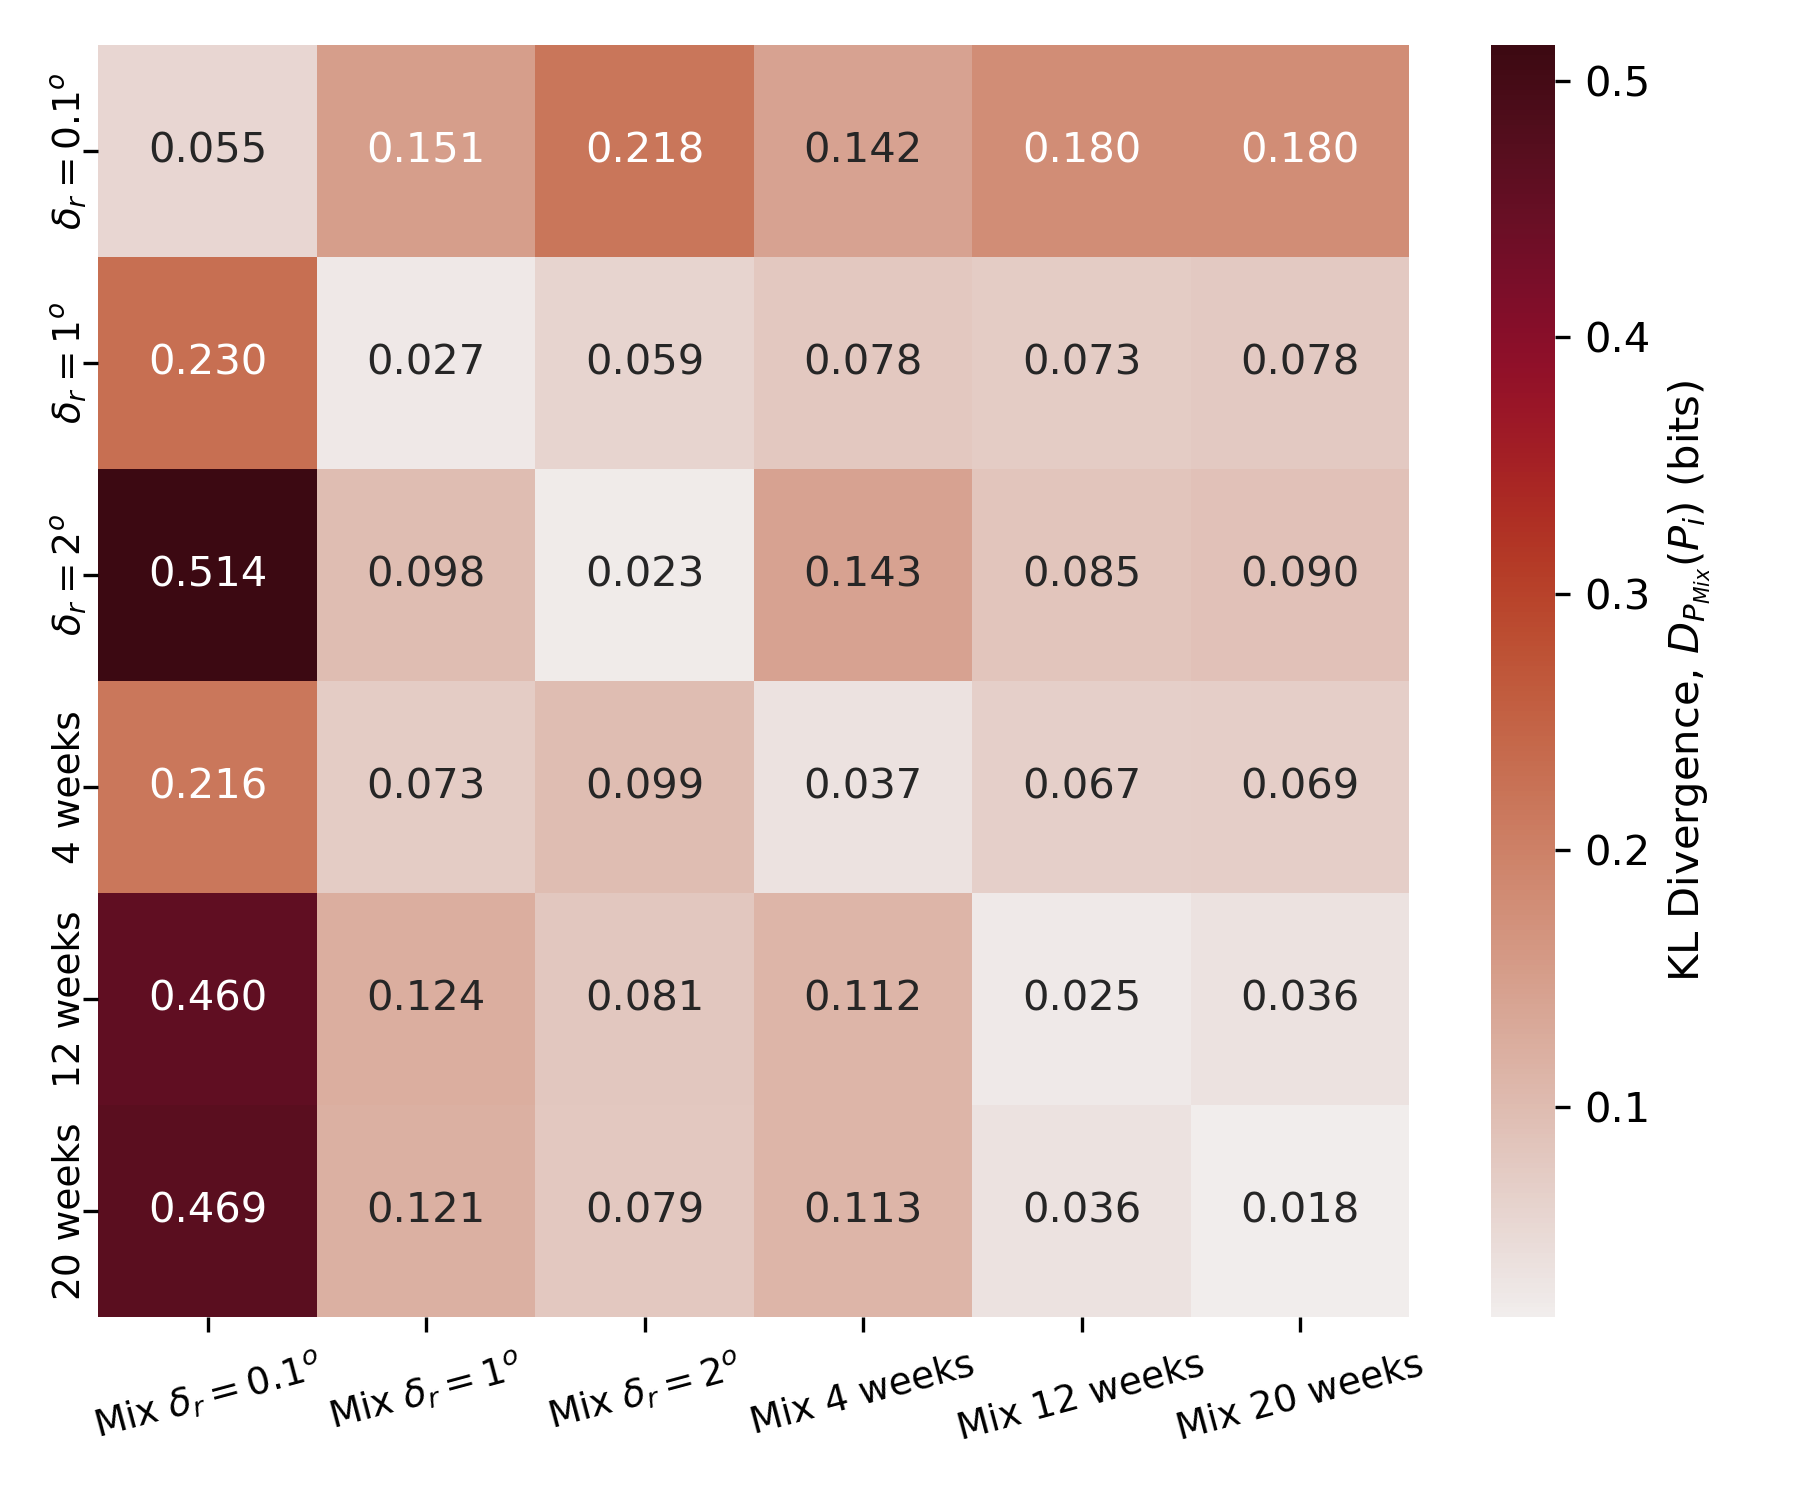
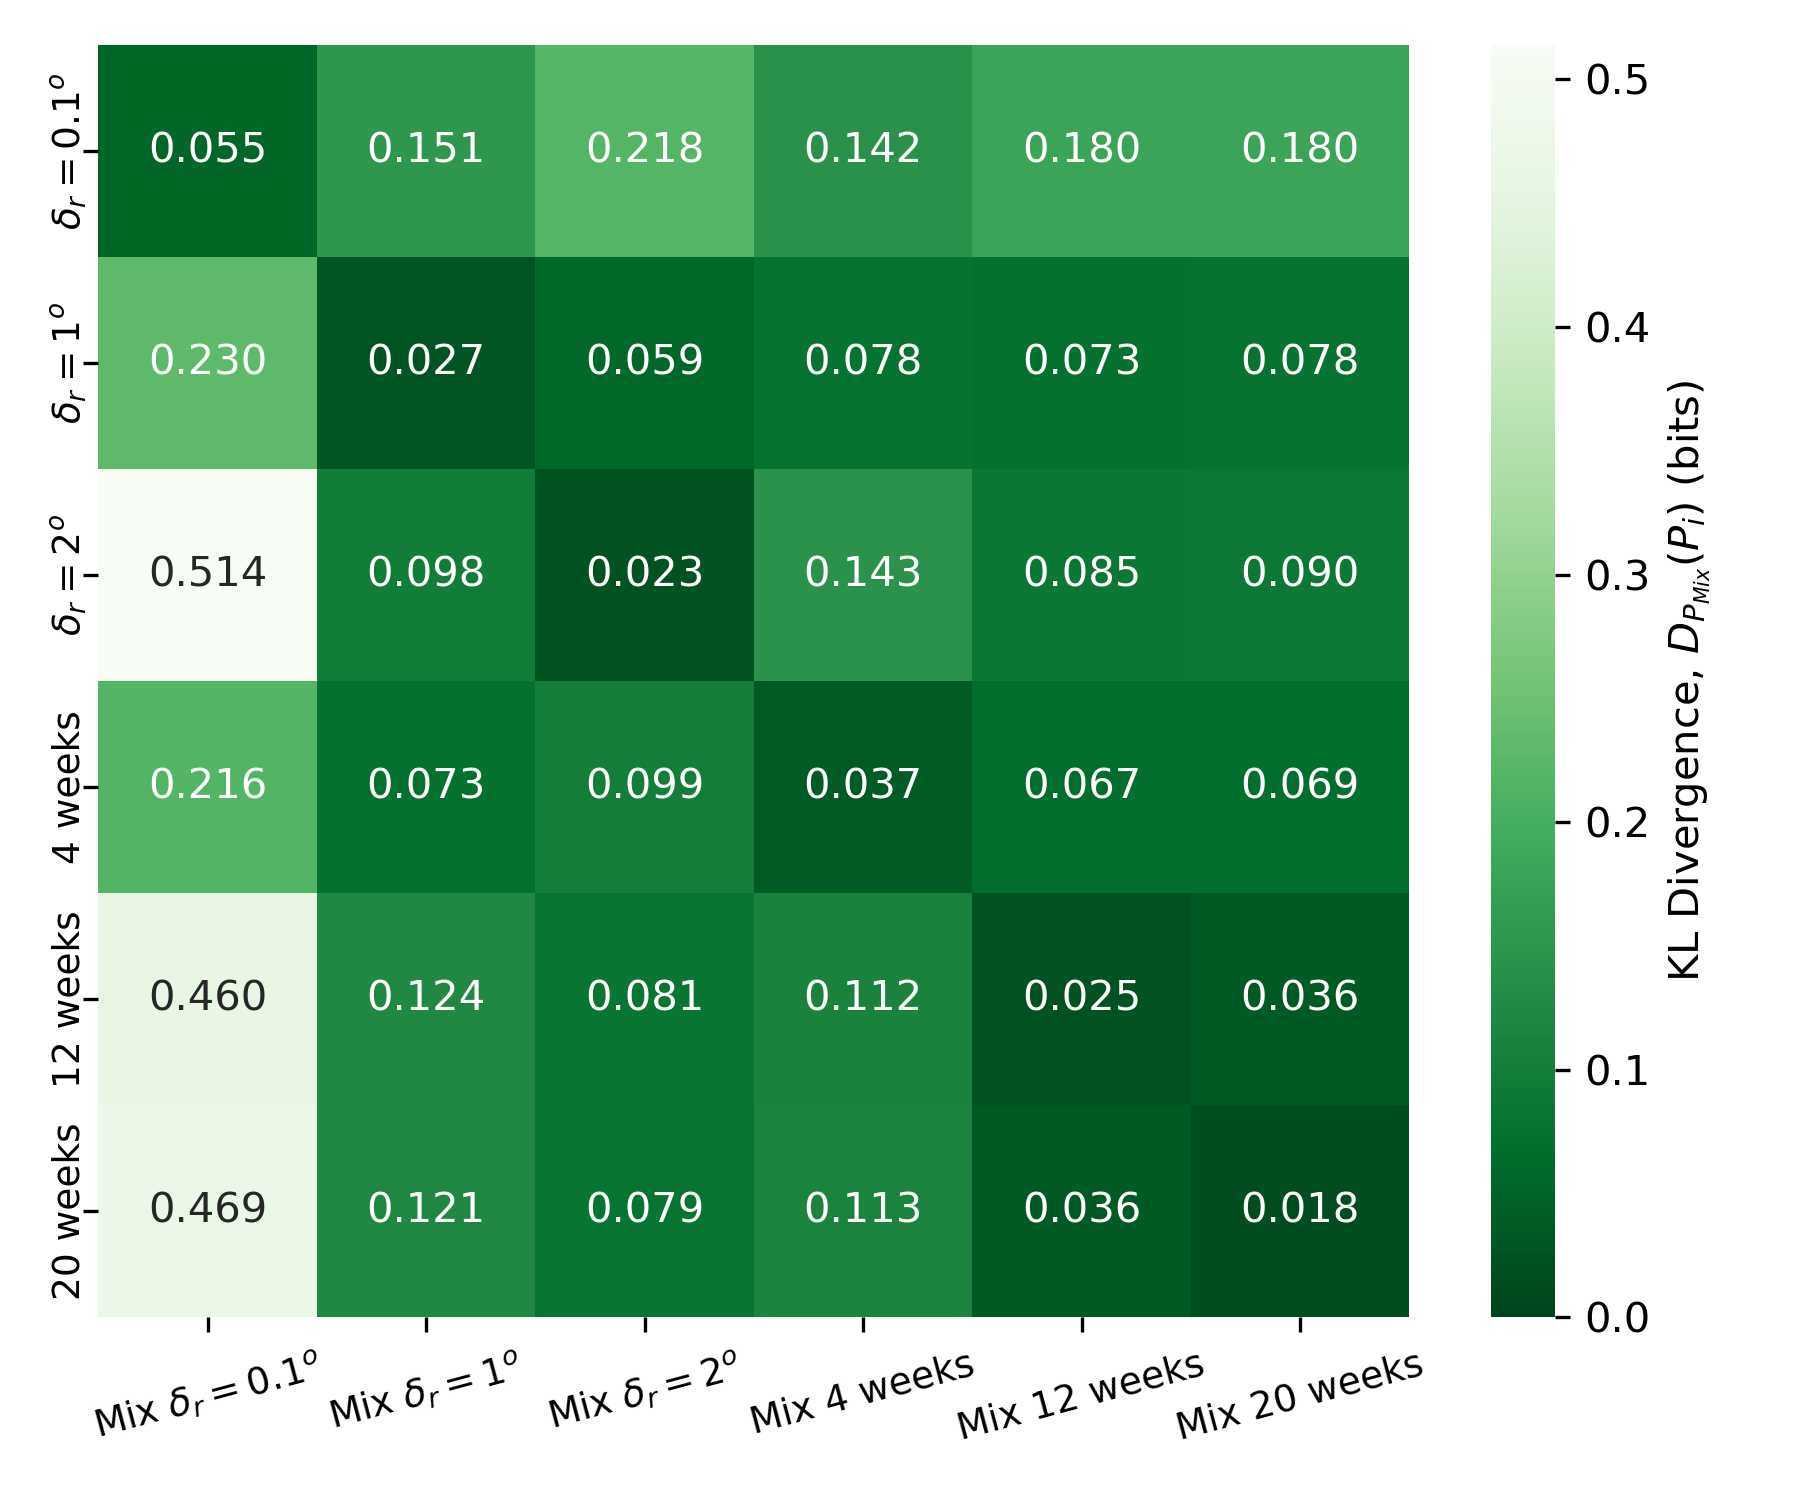
Submitted KLD comparisson for 50**2

diff --git a/plot_scripts/fig6--Connectivity.py b/plot_scripts/fig6--Connectivity.py
@@ -195,67 +195,68 @@ plt.savefig("../figs/Figx-Connect_MIX_tempNspace" + criterium_string + ".png", d
 ###################################################################
 #%% COMPARISON OF TEMPORAL AND SPATIAL CONNECTIVITY with Mixture
 # Plot the percentage of subpolar trajectories for temporal and spatial members
-fig, ax = plt.subplots(2, 3, figsize=(10, 6))
-
+fig, ax = plt.subplots(2, 2, figsize=(8, 6))
 ax = ax.flatten()
 # Plot distributions for percentage of subpolar trajectories
 
 colors_space = ["midnightblue", "blueviolet", "teal"]
 ls_space = [(0, (1, 1)), '--', '-.']
-j = 0
-for delta_r in [0.1, 1., 2.]:
-    sns.kdeplot(all_space[delta_r]["counts"], ax=ax[0], label=f"$\delta_r = {delta_r}^o$", clip=(0, 5000),
+
+for j, delta_r in enumerate([0.1, 1., 2.]):
+    sns.kdeplot(all_space[delta_r]["counts"], ax=ax[0], label=f"$\delta_r = {delta_r}^o$", clip=(0, 7500),
                 fill=False, color=colors_space[j], linestyle=ls_space[j])
     sns.kdeplot(all_space[delta_r]["median_time"]/365, ax=ax[1], label=f"Spatial dr{delta_r}", clip=(0, 6),
                 fill=False, color=colors_space[j], linestyle=ls_space[j])
-    sns.kdeplot(all_space[delta_r]["min_time"]/365, ax=ax[2], label=f"Spatial dr{delta_r}", clip=(0, 6),
-                fill=False, color=colors_space[j], linestyle=ls_space[j])
-    j += 1
 
-dr_ref = 0.1
-sns.kdeplot(all_mix_space[dr_ref]["counts"], ax=ax[0], label=f"Mix. $\delta_r = {dr_ref}^o$", clip=(0, 5000),
-            fill=False, color='k', linestyle='-')
-sns.kdeplot(all_mix_space[dr_ref]["median_time"]/365, ax=ax[1], label=f"Mix. $\delta_r = 1^o$", clip=(0, 6),
-            fill=False, color='k', linestyle='-')
-sns.kdeplot(all_mix_space[dr_ref]["min_time"]/365, ax=ax[2], label=f"Mix. $\delta_r = 1^o$", clip=(0, 6),
-            fill=False, color='k', linestyle='-')
 
-# sns.kdeplot(all_mix_temp[4]["counts"], ax=ax[0], label=f"Mix. 4 weeks", clip=(0, 100),
-#             fill=False, color='k', linestyle=(0, (3, 1, 1, 3)))
-# sns.kdeplot(all_mix_temp[4]["median_time"]/365, ax=ax[1], label=f"Mix. 4 weeks", clip=(0, 6),
-#             fill=False, color='k', linestyle=(0, (3, 1, 1, 3)))
-# sns.kdeplot(all_mix_temp[4]["min_time"]/365, ax=ax[2], label=f"Mix. 4 weeks", clip=(0, 6),
-#             fill=False, color='k', linestyle=(0, (3, 1, 1, 3)))
+for j, dr_ref in enumerate([0.1, 1., 2.]):
+    mean_counts = all_mix_space[dr_ref]["counts"].mean()
+    std_counts = all_mix_space[dr_ref]["counts"].std()
+
+    ax[0].fill_betweenx([0, 0.002], mean_counts-std_counts, mean_counts+std_counts,
+                        color=colors_space[j], alpha=0.2, label=f"Mix. $\delta_r = {dr_ref}^o$",
+                        edgecolor='none')
+    ax[0].set_ylim(0, 0.0009)
+    ax[0].set_xlim(0, 6500)
+    
+    mean_median_time = all_mix_space[dr_ref]["median_time"].mean()/365
+    std_median_time = all_mix_space[dr_ref]["median_time"].std()/365
+
+    ax[1].axvline(mean_median_time, color=colors_space[j], linestyle='-', 
+                  label=f"Mix. $\delta_r = {dr_ref}^o$", alpha=0.3)
+    ax[1].set_xlim(1, 6)
 
 colors_temp = ["darkred", "orangered", "orange"]
 ls_time = [(0, (1, 1)), '--', '-.', (0, (3, 1, 1, 1, 1, 1))]
-j = 0
-for week in [4, 12, 20]:
-    sns.kdeplot(all_temp[week]["counts"], ax=ax[3], label=f"{week} weeks", clip=(0, 5000),
-                fill=False, color=colors_temp[j], linestyle=ls_time[j])
-    sns.kdeplot(all_temp[week]["median_time"]/365, ax=ax[4], label=f"Temporal W{week}", clip=(0, 6),
-                fill=False, color=colors_temp[j], linestyle=ls_time[j])
-    sns.kdeplot(all_temp[week]["min_time"]/365, ax=ax[5], label=f"Temporal W{week}", clip=(0, 6),
-                fill=False, color=colors_temp[j], linestyle=ls_time[j])
-    j += 1
-    
-dr_ref = 0.1
-sns.kdeplot(all_mix_space[dr_ref]["counts"], ax=ax[3], label=f"Mix. $\delta_r = {dr_ref}^o$", clip=(0, 5000),
-            fill=False, color='k', linestyle='-')
-sns.kdeplot(all_mix_space[dr_ref]["median_time"]/365, ax=ax[4], label=f"Mix. $\delta_r = 1^o$", clip=(0, 6),
-            fill=False, color='k', linestyle='-')
-sns.kdeplot(all_mix_space[dr_ref]["min_time"]/365, ax=ax[5], label=f"Mix. $\delta_r = 1^o$", clip=(0, 6),
-            fill=False, color='k', linestyle='-')
 
-sns.kdeplot(all_mix_temp[4]["counts"], ax=ax[3], label=f"Mix. 4 weeks", clip=(0, 100),
-            fill=False, color='k', linestyle=(0, (3, 1, 1, 3)))
-sns.kdeplot(all_mix_temp[4]["median_time"]/365, ax=ax[4], label=f"Mix. 4 weeks", clip=(0, 6),
-            fill=False, color='k', linestyle=(0, (3, 1, 1, 3)))
-sns.kdeplot(all_mix_temp[4]["min_time"]/365, ax=ax[5], label=f"Mix. 4 weeks", clip=(0, 6),
-            fill=False, color='k', linestyle=(0, (3, 1, 1, 3)))
+for j, week in enumerate([4, 12, 20]):
+    sns.kdeplot(all_temp[week]["counts"], ax=ax[2], label=f"{week} weeks", clip=(0, 7500),
+                fill=False, color=colors_temp[j], linestyle=ls_time[j])
+    sns.kdeplot(all_temp[week]["median_time"]/365, ax=ax[3], label=f"Temporal W{week}", clip=(0, 6),
+                fill=False, color=colors_temp[j], linestyle=ls_time[j])
+    
+
+for j, dr_ref in enumerate([4, 12, 20]):
+    mean_counts = all_mix_temp[dr_ref]["counts"].mean()
+    std_counts = all_mix_temp[dr_ref]["counts"].std()
+
+    ax[2].fill_betweenx([0, 0.001], mean_counts-std_counts, mean_counts+std_counts,
+                        color=colors_temp[j], alpha=0.2, label=f"Mix. {dr_ref} weeks", edgecolor='none')
+    ax[2].set_ylim(0, 0.001)
+    
+    ax[2].set_ylim(0, 0.001)
+    ax[2].set_xlim(0, 6500)
+    
+    mean_median_time = all_mix_temp[dr_ref]["median_time"].mean()/365
+    std_median_time = all_mix_temp[dr_ref]["median_time"].std()/365
+
+    ax[3].axvline(mean_median_time, color=colors_temp[j], linestyle='-', 
+                  label=f"Mix. $\delta_r = {dr_ref}^o$", alpha=0.3)
+
+    ax[3].set_xlim(1, 6)
 
 # Add labels 'A', 'B', ... for each subplot in the top left corner
-labels = ['A', 'B', 'C', 'D', 'E', 'F']
+labels = ['A', 'B', 'C', 'D']
 for i, label in enumerate(labels):
     ax[i].text(0.05, 0.95, label, transform=ax[i].transAxes, fontsize=12, fontweight='bold', va='top', ha='left')
 
@@ -266,23 +267,12 @@ ax[0].legend(fontsize=7)
 ax[1].set_xlabel("Median Drift Time (years)")
 ax[1].set_ylabel("Density")
 
-ax[2].set_xlabel("Minimum Drift Time (years)")
+ax[2].set_xlabel("Counts")
 ax[2].set_ylabel("Density")
+ax[2].legend(fontsize=7)
 
-ax[3].set_xlabel("Counts")
+ax[3].set_xlabel("Median Drift Time (years)")
 ax[3].set_ylabel("Density")
-ax[3].legend(fontsize=7)
-
-ax[4].set_xlabel("Median Drift Time (years)")
-ax[4].set_ylabel("Density")
-
-ax[5].set_xlabel("Minimum Drift Time (years)")
-ax[5].set_ylabel("Density")
-
-if Latitude_limit is not None:
-    plt.suptitle(f"Comparisson Particles Crossing {Latitude_limit}°N", fontsize=14)
-elif Longitude_limit is not None:
-    plt.suptitle(f"Comparisson Particles Crossing {abs(Longitude_limit)}°W", fontsize=14)
 
 plt.tight_layout()
 # save the figure

diff --git a/plot_scripts/Cross_entropy_in_time.py b/plot_scripts/Cross_entropy_in_time.py
@@ -2,9 +2,8 @@
 import numpy as np
 import matplotlib.pyplot as plt
 import xarray as xr
-# import cartopy
 from tqdm import tqdm
-# import pickle
+import pickle
 import pandas as pd
 import seaborn as sns
 import cmocean.cm as cmo
@@ -47,7 +46,7 @@ hexbin_grid = hexfunc.hexGrid(hex_grid, h3_res=3)
 
 
 #%% KLD
-N_members = 10
+N_members = 50
 
 time_length = 2189 - 7*20
 time_range = np.arange(0, time_length)
@@ -55,7 +54,7 @@ time_range = np.arange(0, time_length)
 KLD_ALL_mean = {}
 KLD_ALL_std = {}
 
-for delta_ref in [0.1, 2., 4, 20]:
+for delta_ref in [0.1, 1., 2., 4, 12, 20]:
     
     KLDivergence_mean = {}
     KLDivergence_std = {}
@@ -98,6 +97,14 @@ for delta_ref in [0.1, 2., 4, 20]:
     KLD_ALL_mean[delta_ref] = KLDivergence_mean
     KLD_ALL_std[delta_ref] = KLDivergence_std
 
+#%% # save KLDivergence_mean and KLDivergence_std to file
+with open(f'/storage/shared/oceanparcels/output_data/data_Claudio/NEMO_Ensemble/analysis/KLD_time/KLD_time_ALL_mean.pkl', 'wb') as f:
+    pickle.dump(KLD_ALL_mean, f)
+        
+with open(f'/storage/shared/oceanparcels/output_data/data_Claudio/NEMO_Ensemble/analysis/KLD_time/KLD_time_ALL_std.pkl', 'wb') as f:
+    pickle.dump(KLD_ALL_std, f)
+    
+
 #%%
 fig, axs = plt.subplots(2, 2, figsize=(10, 8), sharex=True, sharey=True)
 # fig.subplots_adjust(hspace=0.4, wspace=0.4)
@@ -132,11 +139,11 @@ for i, key in enumerate(KLD_ALL_mean.keys()):
         
     ax.text(0.05, 0.9, f'$\mathbf{{{labels[i]}}}$  Ref.: {labeltt}', fontsize=14, transform=ax.transAxes)
 
-    # ax.semilogx()
+    ax.semilogx()
     ax.legend()
     # ax.grid()
     ax.set_xlim(0, time_length)
-    ax.set_ylim(0, 20)
+    ax.set_ylim(0, 30)
 
 axs[2].set_xlabel('Time (days)')
 axs[3].set_xlabel('Time (days)')
@@ -169,9 +176,9 @@ DF.set_index([[r'$\delta_r = 0.1^o$', r'$\delta_r = 2^o$', 'Mix 4 weeks', 'Mix 2
 # %% Kullback-Leibler divergence plot 
 fig, ax = plt.subplots(figsize=(6, 5))
 
-cmmap = cmo.amp
+cmmap = "Greens_r"
 
-sns.heatmap(DF.T, annot=True, fmt=".3f", cmap=cmmap, ax=ax, cbar=True)
+sns.heatmap(DF, annot=True, fmt=".3f", cmap=cmmap, ax=ax, cbar=True)
 
 # Rotate y tick labels 90 degrees
 ax.set_yticklabels(ax.get_yticklabels(), rotation=90, ha='center', fontsize=9)

diff --git a/plot_scripts/Connectivity_entropy_measures.py b/plot_scripts/Connectivity_entropy_measures.py
@@ -321,7 +321,7 @@ H_ensemble_mix = pd.DataFrame(ensemble_mix_entropy, index=[r'Mix $\delta_r = 0.1
 # Create a 2x2 grid of subplots with space for colorbars
 fig, axs = plt.subplots(2, 3, figsize=(8, 7), gridspec_kw={'width_ratios': [1/7, 6/7, 1/7], 'height_ratios': [6/7, 1/7]})
 
-cmmap = cmo.balance
+cmmap = 'Greys_r'
 central_plot_data = H_cross.T
 Max_ent = np.max(central_plot_data.max())
 Min_ent = np.min(central_plot_data.min())
@@ -363,9 +363,9 @@ fig.savefig("../figs/FigX_Cross_entropy" + criterium_string + ".png", dpi=300)
 # %% Kullback-Leibler divergence plot 
 fig, ax = plt.subplots(figsize=(6, 5))
 
-cmmap = cmo.amp
+cmmap = 'Greens_r' #cmo.algae_r
 
-sns.heatmap(KLD_ensemble.T, annot=True, fmt=".3f", cmap=cmmap, ax=ax, cbar=True)
+sns.heatmap(KLD_ensemble.T, annot=True, fmt=".3f", cmap=cmmap, ax=ax, cbar=True, vmin=0)
 
 # Rotate y tick labels 90 degrees
 ax.set_yticklabels(ax.get_yticklabels(), rotation=90, ha='center', fontsize=9)
@@ -375,6 +375,8 @@ ax.set_xticklabels(ax.get_xticklabels(), rotation=15, ha='center', fontsize=9)
 # Add colorbar label
 cbar = ax.collections[0].colorbar
 cbar.set_label('KL Divergence, $D_{P_{Mix}}(P_i)$ (bits)')
+
+# ax.set_xlabel(r'$P_{Mix}$')
 
 plt.tight_layout()
 plt.show()
